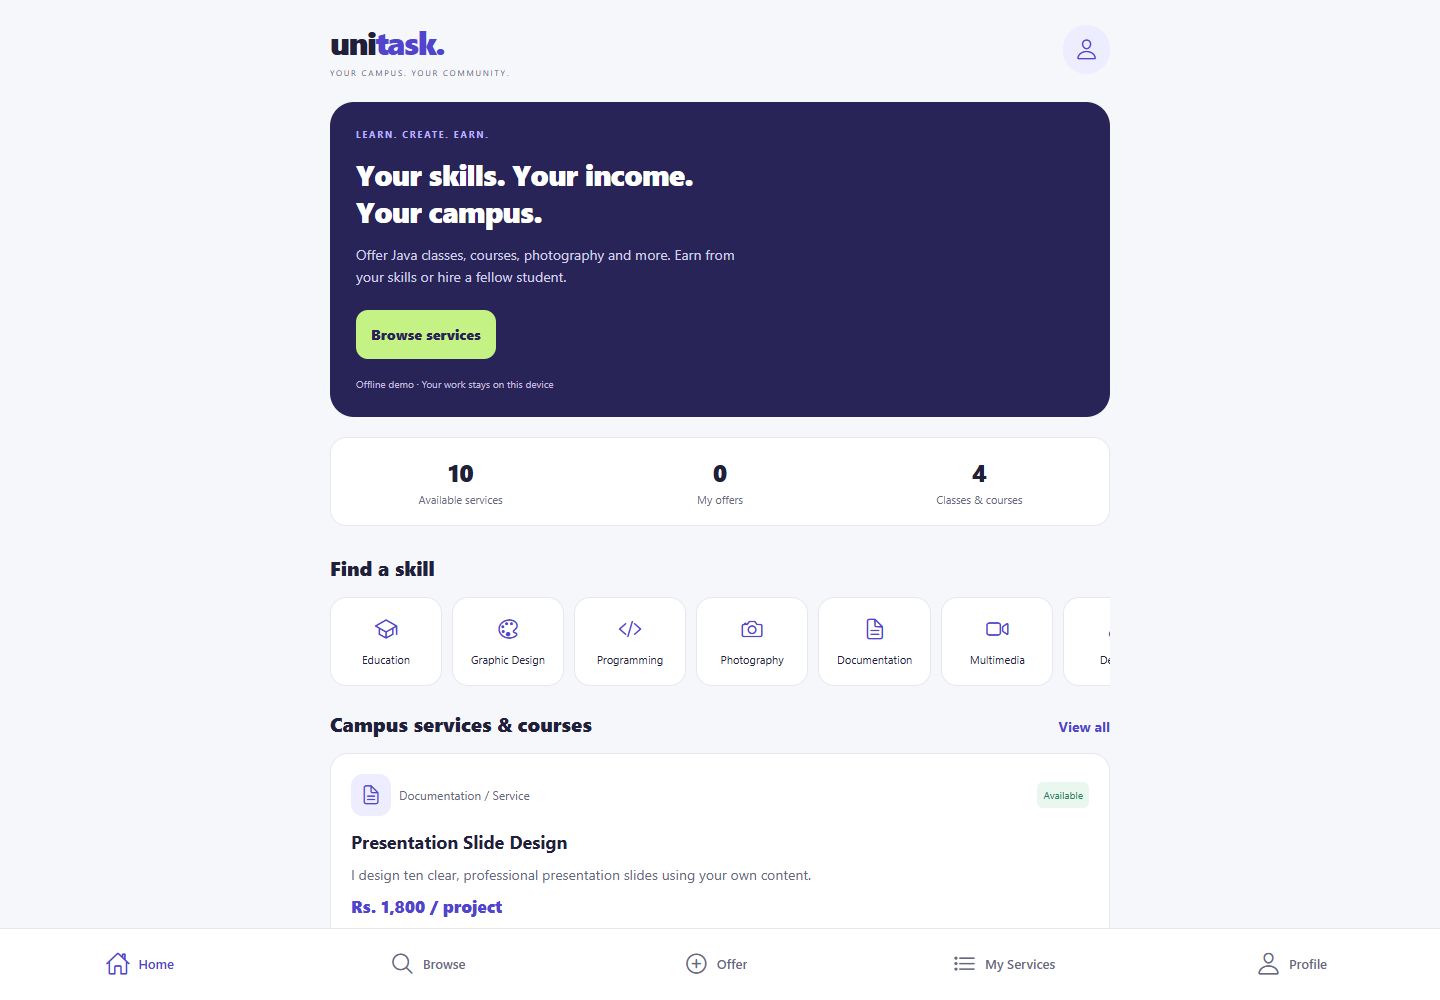
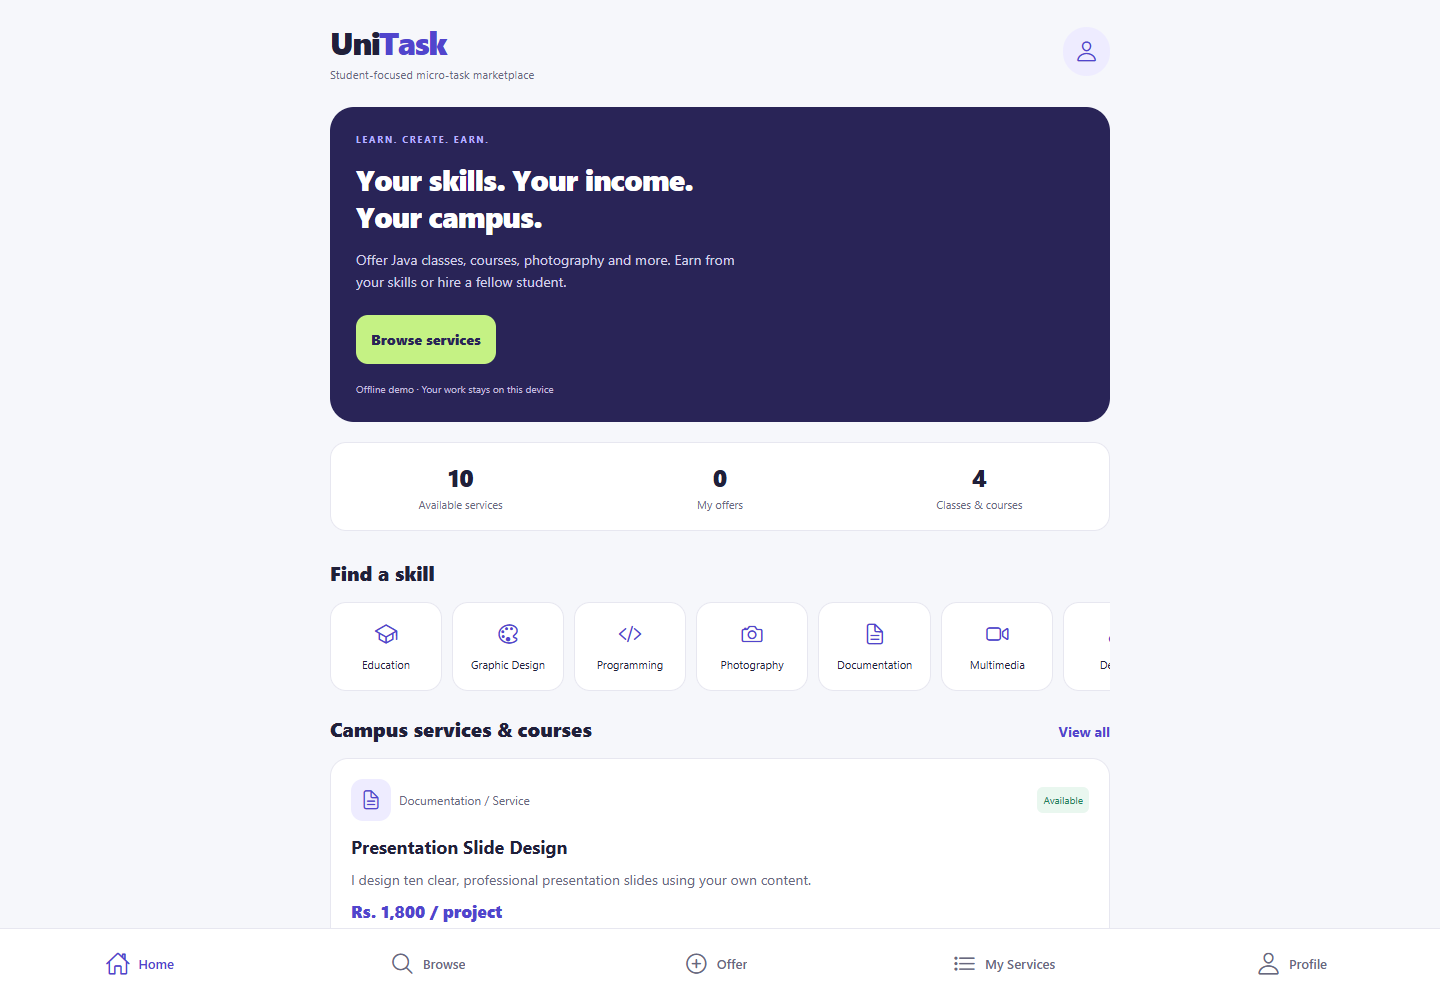
fix: update UniTask brand and marketplace tagline

diff --git a/src/app/(tabs)/home.jsx b/src/app/(tabs)/home.jsx
@@ -14,7 +14,7 @@ export default function Home() {
  const [tasks,setTasks]=useState([]), [error,setError]=useState('');
  useFocusEffect(useCallback(()=>{let active=true;getTasks().then(t=>{if(active){setTasks(t);setError('')}}).catch(()=>{if(active)setError('Could not load services. Reopen this tab to retry.')});return()=>{active=false};},[]));
  return <SafeAreaView edges={['top','left','right']} style={s.page}><ScrollView style={s.page} contentContainerStyle={s.content}>
-  <View style={s.brandRow}><View><Text style={s.brand}>uni<Text style={{color:colors.primary}}>task.</Text></Text><Text style={s.small}>YOUR CAMPUS. YOUR COMMUNITY.</Text></View><View style={s.avatar}><Ionicons name="person-outline" size={23} color={colors.primary}/></View></View>
+  <View style={s.brandRow}><View style={s.brandCopy}><Text style={s.brand}>Uni<Text style={{color:colors.primary}}>Task</Text></Text><Text style={s.small}>Student-focused micro-task marketplace</Text></View><View style={s.avatar}><Ionicons name="person-outline" size={23} color={colors.primary}/></View></View>
   <View style={s.hero}><Text style={s.eyebrow}>LEARN. CREATE. EARN.</Text><Text style={s.heroTitle}>Your skills. Your income.{'\n'}Your campus.</Text><Text style={s.heroBody}>Offer Java classes, courses, photography and more. Earn from your skills or hire a fellow student.</Text><Pressable accessibilityRole="button" style={s.button} onPress={()=>router.push('/explore')}><Text style={s.buttonText}>Browse services</Text></Pressable><Text style={s.offline}>{getSession()?'Connected to UniTask · Shared campus listings':'Offline demo · Your work stays on this device'}</Text></View>
   <View style={s.stats}>{[[tasks.filter(t=>t.status==='Available').length,'Available services'],[tasks.filter(t=>t.is_mine).length,'My offers'],[tasks.filter(t=>t.listingType==='Course'||t.listingType==='Class').length,'Classes & courses']].map(([value,label])=><View key={label} style={s.stat}><Text style={s.statValue}>{value}</Text><Text style={s.statLabel}>{label}</Text></View>)}</View>
   <Text style={s.heading}>Find a skill</Text><ScrollView horizontal showsHorizontalScrollIndicator={false} contentContainerStyle={{gap:10,paddingBottom:24}}>{categories.slice(1).map(c=><Pressable accessibilityRole="button" key={c} style={s.category} onPress={()=>router.push({pathname:'/explore',params:{category:c}})}><Ionicons name={categoryIcons[c]} size={24} color={colors.primary}/><Text style={s.categoryLabel}>{c}</Text></Pressable>)}</ScrollView>
@@ -23,4 +23,4 @@ export default function Home() {
  </ScrollView></SafeAreaView>;
 }
 const createStyles=colors=>StyleSheet.create({
-  bodyText:{color:colors.text},error:{color:colors.danger,lineHeight:22},page:{flex:1,backgroundColor:colors.background},content:{padding:20,width:'100%',maxWidth:820,alignSelf:'center',paddingBottom:32},brandRow:{flexDirection:'row',justifyContent:'space-between',alignItems:'center',marginBottom:24},brand:{fontSize:32,fontWeight:'900',letterSpacing:-1.5,color:colors.text},small:{fontSize:8,letterSpacing:1.8,color:colors.muted,marginTop:3},avatar:{padding:12,borderRadius:30,backgroundColor:colors.primarySurface},hero:{backgroundColor:colors.hero,borderRadius:24,padding:26,marginBottom:20},eyebrow:{color:colors.heroEyebrow,fontSize:9,fontWeight:'700',letterSpacing:1.8},heroTitle:{fontSize:29,fontWeight:'800',color:colors.heroText,lineHeight:37,marginTop:16,letterSpacing:-0.7},heroBody:{color:colors.heroMuted,fontSize:14,lineHeight:22,marginTop:14,maxWidth:400},button:{backgroundColor:colors.heroAccent,padding:15,borderRadius:12,alignSelf:'flex-start',marginTop:22},buttonText:{color:colors.onHeroAccent,fontWeight:'800'},offline:{color:colors.heroHint,fontSize:10,marginTop:18},stats:{flexDirection:'row',backgroundColor:colors.surface,borderWidth:1,borderColor:colors.border,borderRadius:16,paddingVertical:18,marginBottom:28},stat:{flex:1,alignItems:'center'},statValue:{fontSize:24,fontWeight:'800',color:colors.text},statLabel:{fontSize:11,color:colors.muted,marginTop:4},heading:{fontSize:20,fontWeight:'800',color:colors.text,marginBottom:16},category:{backgroundColor:colors.surface,borderWidth:1,borderColor:colors.border,padding:18,borderRadius:16,alignItems:'center',minWidth:112,gap:10},categoryLabel:{fontSize:11,color:colors.text},section:{flexDirection:'row',justifyContent:'space-between',alignItems:'baseline'}});
+  bodyText:{color:colors.text},error:{color:colors.danger,lineHeight:22},page:{flex:1,backgroundColor:colors.background},content:{padding:20,width:'100%',maxWidth:820,alignSelf:'center',paddingBottom:32},brandRow:{flexDirection:'row',justifyContent:'space-between',alignItems:'center',gap:12,marginBottom:24},brandCopy:{flex:1},brand:{fontSize:32,fontWeight:'900',letterSpacing:-1.5,color:colors.text},small:{fontSize:11,lineHeight:16,letterSpacing:0.2,color:colors.muted,marginTop:3},avatar:{padding:12,borderRadius:30,backgroundColor:colors.primarySurface},hero:{backgroundColor:colors.hero,borderRadius:24,padding:26,marginBottom:20},eyebrow:{color:colors.heroEyebrow,fontSize:9,fontWeight:'700',letterSpacing:1.8},heroTitle:{fontSize:29,fontWeight:'800',color:colors.heroText,lineHeight:37,marginTop:16,letterSpacing:-0.7},heroBody:{color:colors.heroMuted,fontSize:14,lineHeight:22,marginTop:14,maxWidth:400},button:{backgroundColor:colors.heroAccent,padding:15,borderRadius:12,alignSelf:'flex-start',marginTop:22},buttonText:{color:colors.onHeroAccent,fontWeight:'800'},offline:{color:colors.heroHint,fontSize:10,marginTop:18},stats:{flexDirection:'row',backgroundColor:colors.surface,borderWidth:1,borderColor:colors.border,borderRadius:16,paddingVertical:18,marginBottom:28},stat:{flex:1,alignItems:'center'},statValue:{fontSize:24,fontWeight:'800',color:colors.text},statLabel:{fontSize:11,color:colors.muted,marginTop:4},heading:{fontSize:20,fontWeight:'800',color:colors.text,marginBottom:16},category:{backgroundColor:colors.surface,borderWidth:1,borderColor:colors.border,padding:18,borderRadius:16,alignItems:'center',minWidth:112,gap:10},categoryLabel:{fontSize:11,color:colors.text},section:{flexDirection:'row',justifyContent:'space-between',alignItems:'baseline'}});

diff --git a/DEVELOPMENT_LOG.md b/DEVELOPMENT_LOG.md
@@ -118,3 +118,11 @@ Read this file, git status, git log, then inspect any running Expo process befor
 - No merge conflicts; merged application source, dependencies and tests match the verified feature branch exactly.
 - Fresh validation passed: npx expo lint, npx tsc --noEmit, and npm test (7 tests). The identical feature source previously passed both appearance and marketplace browser workflows.
 - Updated README to identify main as the branch containing marketplace, provider contact and light/dark/system appearance features.
+
+
+## Header wording updated - 2026-11-16
+- Changed the home brand from unitask. to UniTask and replaced the old campus/community tagline with Student-focused micro-task marketplace.
+- Added flexible header copy spacing and readable tagline sizing for narrow screens.
+- npx expo lint and npx tsc --noEmit passed. A focused browser check verified the text and bounds at 320px, 390px and desktop, including light/dark modes, with no runtime errors.
+- Refreshed four home screenshots and visually reviewed the narrow dark and mobile light layouts.
+- Preview: http://localhost:8081/home, Expo session 65780, CI/offline mode with max-workers 2.
